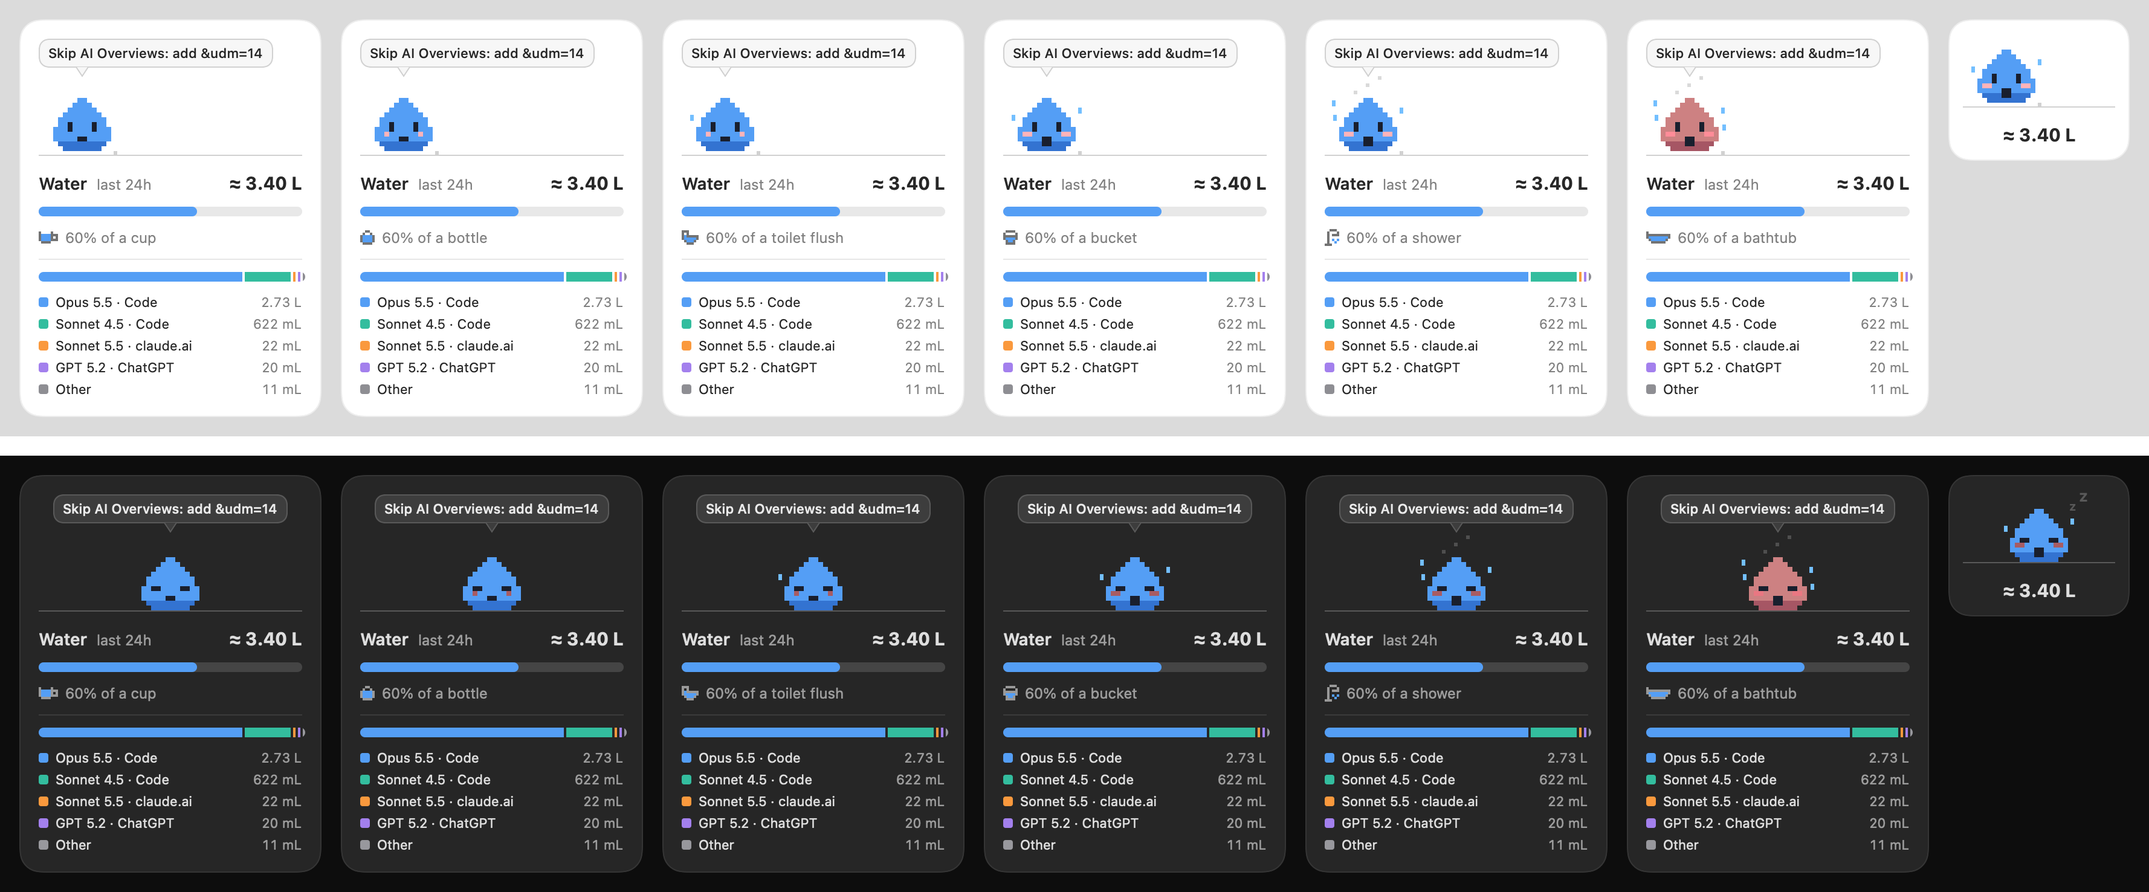
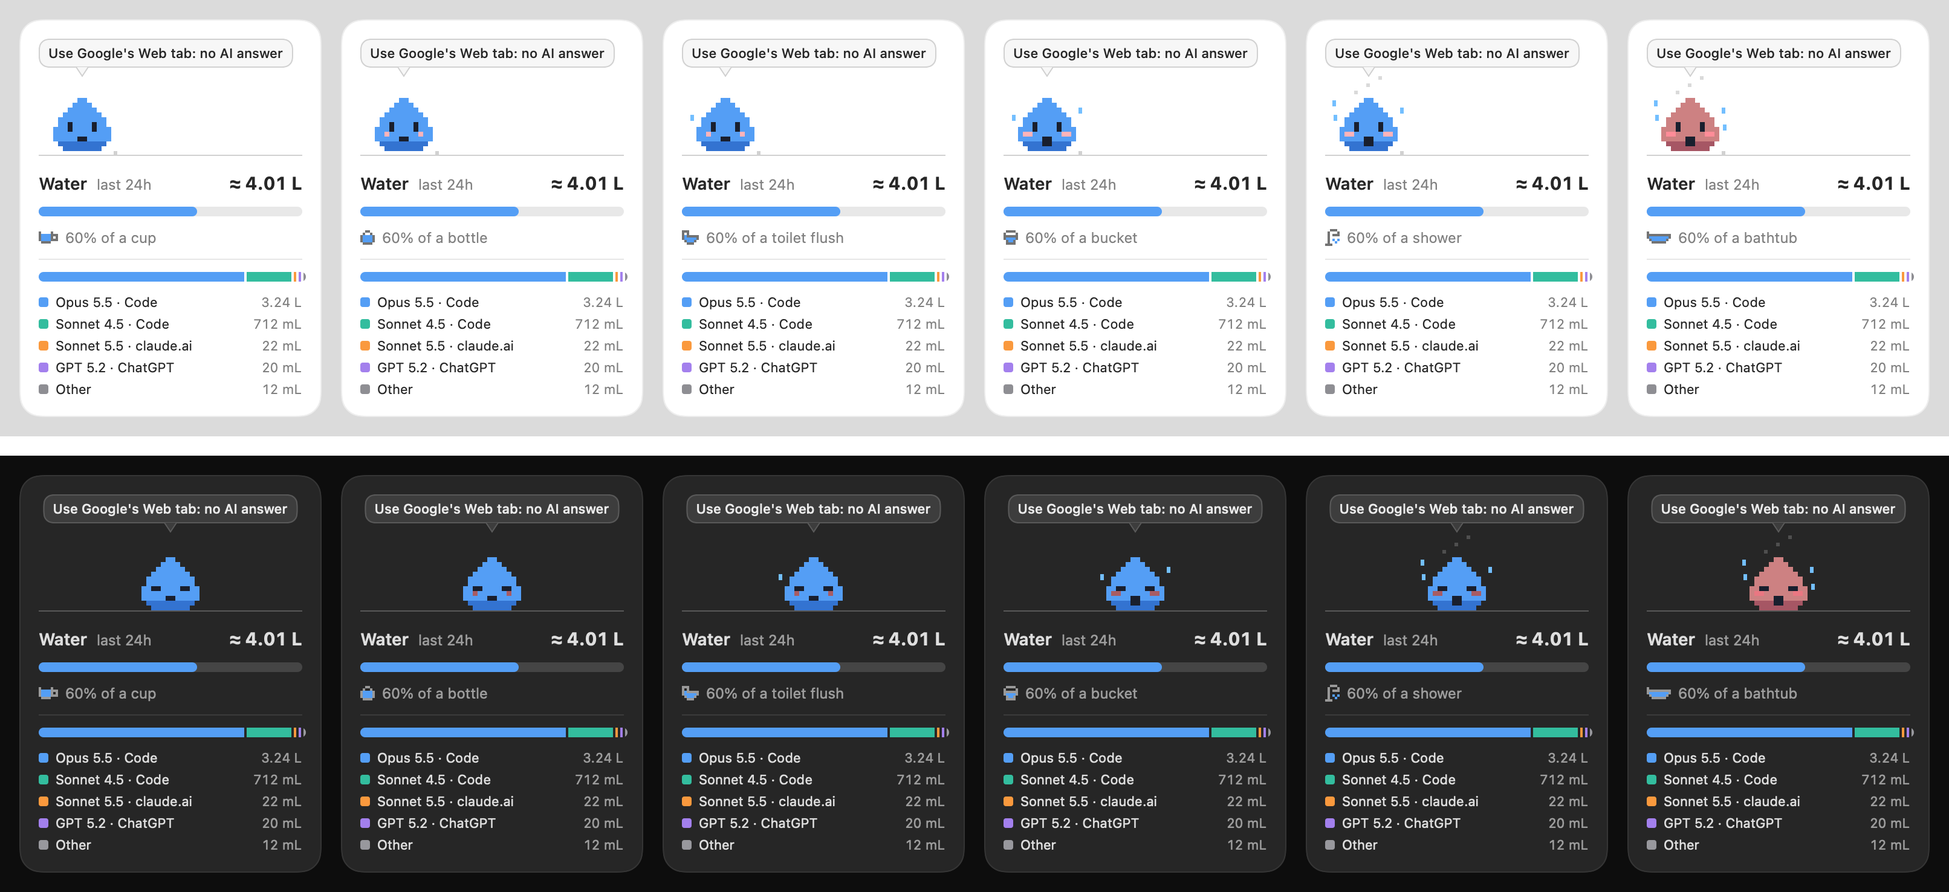
Track any AI chat site with a general stream meter; generalize the README
meter.js runs in the page on listed AI sites without a dedicated watcher
(Qwen, DeepSeek, Le Chat, Perplexity, Grok, Kimi, Copilot, Z.ai,
HuggingChat, Poe). It notices a streamed reply over fetch or XHR and
measures the visible text the page gained, without reading the stream;
the model comes from the request when present. Models EcoLogits knows use
it; unknown ones get a wide stand-in range with world-average water.
The README now covers AI use in general, with a supported-and-tested
table; the Google tip is clearer and the preview drops the minimal card.

diff --git a/Sources/Browser.swift b/Sources/Browser.swift
@@ -17,33 +17,44 @@ struct BrowserEvent: Equatable {
     let model: String?
     let tokens: Int
 
-    /// Accepts only known sites, a plain model id and a sane token count. Anything else is dropped.
+    /// Accepts a known site or a plain host name (any other AI chat site, measured by meter.js), a plain
+    /// model id and a sane token count. Anything else is dropped.
     init?(json: Data) {
-        guard let d = try? JSONSerialization.jsonObject(with: json) as? [String: Any],
-              let site = d["site"] as? String, Self.sites.contains(site) else { return nil }
+        guard let d = try? JSONSerialization.jsonObject(with: json) as? [String: Any], let site = d["site"] as? String,
+              Self.sites.contains(site) || site.range(of: #"^[a-z0-9-]+(\.[a-z0-9-]+)+$"#, options: .regularExpression) != nil,
+              site.count <= 64 else { return nil }
         self.site = site
         model = (d["model"] as? String).flatMap { $0.range(of: #"^[a-z0-9.\-]{1,64}$"#, options: .regularExpression) != nil ? $0 : nil }
         tokens = min(max(d["tokens"] as? Int ?? 0, 0), 100_000)
     }
 
-    /// The model behind the event and its water. Unknown models fall back to the site's usual default.
+    /// The model behind the event and its water.
     func usage(at date: Date, catalog: Catalog) -> Usage? {
-        let source = ["claude.ai": "claude.ai", "chatgpt.com": "ChatGPT", "gemini.google.com": "Gemini"][site] ?? "Search"
+        // Model ids as EcoLogits names them: ChatGPT's "gpt-5-2-thinking" is "gpt-5.2".
+        let candidates: [String] = model.map { (m: String) -> [String] in
+            let dotted = m.replacingOccurrences(of: #"(\d)-(\d)"#, with: "$1.$2", options: .regularExpression)
+            return [m, dotted, dotted.replacingOccurrences(of: #"-(thinking|instant|pro)$"#, with: "", options: .regularExpression)]
+        } ?? []
+        func estimate(_ m: Model, _ source: String) -> Usage {
+            Usage(date: date, source: source, model: m, output: tokens, thinking: 0, effort: nil, water: EcoLogits.water(m, outputTokens: tokens))
+        }
         switch site {
-        case "claude.ai", "chatgpt.com":
+        case "claude.ai", "chatgpt.com":   // unknown models fall back to the site's usual default
             let fallback = site == "claude.ai" ? "claude-sonnet-5-5" : "gpt-5"
-            // ChatGPT slugs look like "gpt-5-2-thinking"; EcoLogits names them "gpt-5.2".
-            let candidates: [String] = model.map { (m: String) -> [String] in
-                let dotted = m.replacingOccurrences(of: #"(\d)-(\d)"#, with: "$1.$2", options: .regularExpression)
-                return [m, dotted, dotted.replacingOccurrences(of: #"-(thinking|instant|pro)$"#, with: "", options: .regularExpression)]
-            } ?? []
             guard let m = (candidates + [fallback]).lazy.compactMap({ catalog[$0] }).first else { return nil }
-            return Usage(date: date, source: source, model: m, output: tokens, thinking: 0, effort: nil, water: EcoLogits.water(m, outputTokens: tokens))
-        default:
-            let name = site == "gemini.google.com" ? "Gemini" : "Google AI Overview"
-            let m = Model(name: name, provider: "google", total: 0...0, active: 0...0, tps: nil, ttft: nil)
-            return Usage(date: date, source: source, model: m, output: tokens, thinking: 0, effort: nil,
-                         water: Liters(min: googleLitersPerPrompt, max: googleLitersPerPrompt))
+            return estimate(m, site == "claude.ai" ? "claude.ai" : "ChatGPT")
+        case "gemini.google.com", "google-ai-overview":
+            let m = Model(name: site == "gemini.google.com" ? "Gemini" : "Google AI Overview", provider: "google",
+                          total: 0...0, active: 0...0, tps: nil, ttft: nil)
+            return Usage(date: date, source: site == "gemini.google.com" ? "Gemini" : "Search", model: m, output: tokens,
+                         thinking: 0, effort: nil, water: Liters(min: googleLitersPerPrompt, max: googleLitersPerPrompt))
+        default:   // any other AI chat site: EcoLogits if it knows the model, else a wide stand-in
+            let source = site.replacingOccurrences(of: #"^(chat|www)\."#, with: "", options: .regularExpression)
+            if let m = candidates.lazy.compactMap({ catalog[$0] }).first, EcoLogits.providers[m.provider] != nil {
+                return estimate(m, source)
+            }
+            // ponytail: one size range for every unknown model; per-site sizes if a site is used a lot.
+            return estimate(Model(name: model ?? "AI chat", provider: "other", total: 200...1000, active: 20...100, tps: nil, ttft: nil), source)
         }
     }
 }
@@ -92,7 +103,8 @@ final class BrowserReader {
 
 func browserSelfTest(catalog: Catalog) {
     func event(_ s: String) -> BrowserEvent? { BrowserEvent(json: Data(s.utf8)) }
-    precondition(event(#"{"site":"evil.com","tokens":5}"#) == nil, "unknown site must be dropped")
+    precondition(event(#"{"site":"<script>","tokens":5}"#) == nil && event(#"{"site":"localhost","tokens":5}"#) == nil,
+                 "anything but a host name must be dropped")
     precondition(event(#"{"site":"claude.ai","model":"x\"; rm","tokens":9999999}"#).map { $0.model == nil && $0.tokens == 100_000 } == true,
                  "bad model and huge token count must be cleaned")
     let opus = event(#"{"site":"claude.ai","model":"claude-opus-5-5","tokens":1000}"#)!.usage(at: Date(), catalog: catalog)!
@@ -100,5 +112,9 @@ func browserSelfTest(catalog: Catalog) {
     let gpt = event(#"{"site":"chatgpt.com","model":"gpt-5-2-thinking","tokens":1000}"#)!.usage(at: Date(), catalog: catalog)!
     precondition(gpt.model.name == "gpt-5.2", "ChatGPT slug must map to EcoLogits, got \(gpt.model.name)")
     precondition(event(#"{"site":"google-ai-overview"}"#)!.usage(at: Date(), catalog: catalog)!.water.min == googleLitersPerPrompt)
+    let mistral = event(#"{"site":"chat.mistral.ai","model":"mistral-medium-3.5","tokens":1000}"#)!.usage(at: Date(), catalog: catalog)!
+    precondition(abs(mistral.water.min - 0.0034188770292818793) < 1e-12 && mistral.source == "mistral.ai", "known models on other sites use EcoLogits")
+    let qwen = event(#"{"site":"chat.qwen.ai","model":"qwen3.7-plus","tokens":1000}"#)!.usage(at: Date(), catalog: catalog)!
+    precondition(qwen.model.provider == "other" && qwen.water.min > 0 && qwen.water.max > qwen.water.min, "unknown models get a range")
     print("browser selftest ok")
 }

diff --git a/extension/meter.js b/extension/meter.js
@@ -1,0 +1,69 @@
+// General meter for AI chat sites that have no dedicated watcher in content.js. Runs inside the
+// page (MAIN world) so it can see the page's own requests.
+//
+// It never reads what is sent or streamed. It only notices that a reply is streaming (a POST whose
+// response arrives in pieces, over fetch or XMLHttpRequest), then measures how much visible text the
+// page gained from the start of the stream until it settles. Overlapping streams count as one reply.
+// The model is taken from the request's "model" field when the site sends one.
+// ponytail: WebSocket chats are not seen; add a WebSocket hook if a listed site turns out to use one.
+(() => {
+  const SETTLE_MS = 1500, MIN_CHARS = 20, CHARS_PER_TOKEN = 4;
+  let open = false, active = 0, startLen = 0, model = null, timer;
+  const visible = () => document.body?.innerText.length ?? 0;
+
+  function modelOf(body) {
+    try {
+      const j = typeof body === "string" ? JSON.parse(body) : null;
+      const m = j?.model ?? j?.model_slug ?? j?.models?.[0];
+      return typeof m === "string" ? m.toLowerCase() : null;
+    } catch { return null; }
+  }
+  function begin(m, from) {   // from: visible text length when the request was sent
+    clearTimeout(timer);
+    if (!open) { open = true; startLen = from; model = null; }
+    model ||= m;
+    active++;
+  }
+  function end() {
+    if (--active > 0) return;
+    timer = setTimeout(() => {
+      open = false;
+      const chars = visible() - startLen;
+      if (chars >= MIN_CHARS) {
+        window.postMessage({ tracky: { site: location.hostname, model, tokens: Math.round(chars / CHARS_PER_TOKEN) } }, location.origin);
+      }
+    }, SETTLE_MS);
+  }
+
+  const origFetch = window.fetch;
+  window.fetch = async function (input, init) {
+    let post = false, from = 0;
+    try {   // never let the meter break the site: anything unexpected passes straight through
+      post = String(init?.method ?? (input instanceof Request ? input.method : "GET")).toUpperCase() === "POST";
+      if (post) from = visible();   // reading visible text forces a layout, so only for POSTs
+    } catch {}
+    const res = await origFetch.apply(this, arguments);
+    try {
+      if (post && res.body && /event-stream|ndjson|stream/.test(res.headers.get("content-type") ?? "")) {
+        begin(modelOf(init?.body), from);
+        res.clone().body.pipeTo(new WritableStream()).catch(() => {}).finally(end);   // waits for the end only
+      }
+    } catch {}
+    return res;
+  };
+
+  const xhrOpen = XMLHttpRequest.prototype.open, xhrSend = XMLHttpRequest.prototype.send;
+  XMLHttpRequest.prototype.open = function (method) {
+    this.trackyPost = String(method).toUpperCase() === "POST";
+    return xhrOpen.apply(this, arguments);
+  };
+  XMLHttpRequest.prototype.send = function (body) {
+    if (this.trackyPost) {
+      let chunks = 0, began = false;
+      const from = visible();
+      this.addEventListener("progress", () => { if (++chunks === 2) { began = true; begin(modelOf(body), from); } });   // streaming = several pieces
+      this.addEventListener("loadend", () => { if (began) end(); });
+    }
+    return xhrSend.apply(this, arguments);
+  };
+})();

diff --git a/Sources/main.swift b/Sources/main.swift
@@ -116,7 +116,7 @@ func tips(_ s: Store) -> [String] {
     var out: [String] = []
     if let last = s.usages.max(by: { $0.date < $1.date }) {
         if last.source == "Search" {
-            out += ["Skip AI Overviews: add &udm=14", "AI Mode follow-ups cost water"]
+            out += ["Use Google's Web tab: no AI answer", "AI Mode follow-ups cost water"]
         }
         if let alt = lighter(than: last.model) {
             let ratio = EcoLogits.water(last.model, outputTokens: 1000).mid / EcoLogits.water(alt, outputTokens: 1000).mid
@@ -489,7 +489,6 @@ if let i = args.firstIndex(of: "--preview"), i + 1 < args.count {   // render ev
         ForEach([ColorScheme.light, .dark], id: \.self) { scheme in
             HStack(alignment: .top, spacing: 16) {   // light: awake at each heat level; dark: asleep
                 ForEach(0..<containers.count, id: \.self) { Companion(store: store, forced: (scheme == .dark, $0)) }
-                Companion(store: store, forced: (scheme == .dark, 3), forcedCompact: true)
             }
             .padding(16).background(scheme == .dark ? Color(white: 0.05) : Color(white: 0.86)).environment(\.colorScheme, scheme)
         }

diff --git a/Sources/Water.swift b/Sources/Water.swift
@@ -28,6 +28,10 @@ enum EcoLogits {
     static let providers: [String: (pue: ClosedRange<Double>, wue: ClosedRange<Double>, offsite: Double)] = [
         "anthropic": (1.09...1.14, 0.13...0.999, 3.1321),
         "openai": (1.2...1.2, 0.569...0.569, 3.1321),
+        "mistralai": (1.16...1.16, 0.09...0.09, 6.0315),   // SWE
+        // Not in EcoLogits: an unknown provider gets the widest PUE and WUE range above, with the
+        // world-average off-site WUE (WOR 3.908).
+        "other": (1.09...1.2, 0.09...0.999, 3.908),
     ]
 
     static func water(_ m: Model, outputTokens: Int) -> Liters {

diff --git a/extension/content.js b/extension/content.js
@@ -92,3 +92,9 @@ function watchSearch() {
 
 if (location.hostname === "www.google.com") watchSearch();
 else if (SITES[location.hostname]) watchReplies(location.hostname, SITES[location.hostname]);
+else {
+  // Any other listed AI site: meter.js (in the page) measures replies; pass its events on.
+  window.addEventListener("message", (e) => {
+    if (e.source === window && e.data?.tracky) report(e.data.tracky);
+  });
+}

diff --git a/README.md b/README.md
@@ -1,8 +1,8 @@
 # Tracky
 
-A small pixel water drop that lives on your Mac and shows how much water your AI use costs, while you use it.
+A small pixel water drop that lives on your Mac and shows how much water your AI use costs, while you use it: coding agents, AI chats in the browser, and Google's AI answers.
 
-![Tracky at each heat level, awake in light mode and asleep in dark mode, with sample browser usage in the legend](docs/preview.png)
+![Tracky at each heat level, awake in light mode and asleep in dark mode, with sample usage in the legend](docs/preview.png)
 
 - **On the desktop:** a card you can drag anywhere. Tracky sleeps when no AI is working and paces and hops while one is. Double-click the card (or use the menu) to switch between the complete card and a minimal one with just Tracky and the total.
 - **It heats up as you use more water.** A bar fills toward the next container, and each container you pass makes Tracky hotter:
@@ -16,13 +16,27 @@ A small pixel water drop that lives on your Mac and shows how much water your AI
   | shower | 60 ([average US shower, 15.8 gal](https://home-water-works.org/indoor-use/showers)) | steaming |
   | bathtub | 150 | overheated, red |
 
-- **Where the water comes from:** a second bar splits the total by model and source, such as *Opus 5.5 · Code* or *Sonnet 5.5 · claude.ai*, with a legend. The four largest get a color; the rest are grouped as *Other*.
-- **Tips in a speech bubble,** about what you used last: the next lighter model in the same family (*Try Sonnet 5.5: ~3× less water* after Opus, *Try Haiku 5.5* after Sonnet), your Claude Code effort (*45% thinking: try lower effort*), or, after a Google search with an AI answer, *Skip AI Overviews: add &udm=14*.
+- **Where the water comes from:** a second bar splits the total by model and source, such as *Opus 5.5 · Code*, *GPT 5.2 · ChatGPT* or *Google AI Overview*, with a legend. The four largest get a color; the rest are grouped as *Other*.
+- **Tips in a speech bubble,** about what you used last: the next lighter model in the same family (*Try Sonnet 5.5: ~3× less water* after Opus), your coding agent's effort (*45% thinking: try lower effort*), or, after a Google search with an AI answer, *Use Google's Web tab: no AI answer*.
 - **Menu bar:** the drop and the total. Click it for the same breakdown, a tip, the period (last 1, 5 or 24 hours), switches for the minimal card, to hide the card and to open Tracky at login (on by default), and *How is this estimated?*, which opens the EcoLogits method Tracky implements.
 
 Everything stays on your Mac. Tracky records only which model ran, when, and how many tokens it produced. It never stores prompts or replies, needs no macOS permissions and makes no network calls.
 
-## Run it
+## What works, and what's been tested
+
+Tracky may work with tools outside this list, but only what's marked *tested* has been checked against real use.
+
+| Source | How Tracky sees it | Status |
+|---|---|---|
+| Claude Code (terminal, and the Claude desktop app's Code tab) | its local logs: exact model and token counts | tested |
+| claude.ai in Chrome | extension, model from the page | tested |
+| chatgpt.com in Chrome | extension, model from the page when shown (GPT-5 otherwise) | tested |
+| Google AI Overviews and AI Mode in Chrome | extension, one prompt per AI answer, follow-ups included | tested (English and Italian Google) |
+| gemini.google.com in Chrome | extension | built, not confirmed |
+| Other AI chat sites in Chrome: Qwen, DeepSeek, Le Chat, Perplexity, Grok, Kimi, Copilot, Z.ai, HuggingChat, Poe | extension's general meter | built, checked only on a simulated chat |
+| Claude desktop app's chat, Cowork, desktop chat apps, Firefox, Safari, local models | — | not yet |
+
+## Install
 
 Needs macOS 14+ and the Swift toolchain (Xcode Command Line Tools are enough).
 
@@ -34,7 +48,7 @@ Needs macOS 14+ and the Swift toolchain (Xcode Command Line Tools are enough).
 open build/Tracky.app
 ```
 
-`build.sh` also runs the self-test. Two more flags help with checking:
+`build.sh` also runs the self-tests. Two more flags help with checking:
 
 ```bash
 build/Tracky.app/Contents/MacOS/Tracky --dump
@@ -46,32 +60,24 @@ build/Tracky.app/Contents/MacOS/Tracky --preview docs/preview.png
 
 `--dump` prints what Tracky read from the last 24 hours. `--preview` renders every heat level, awake and asleep, to a PNG, adding a few sample browser events so the legend fills up.
 
-## What it tracks
-
-**Claude Code**, in the terminal and in the Claude desktop app's Code tab. It reads `~/.claude/projects/*/*.jsonl`, and for each reply takes the model, output and thinking tokens, and effort. These counts are exact.
-
-**The browser (Chrome),** through the extension in `extension/`. When an AI reply finishes, it sends Tracky the site, the model and an approximate token count, never the text.
-
-| Site | Model | Water |
-|---|---|---|
-| claude.ai | read from the model picker (Sonnet 5.5 if not found) | EcoLogits |
-| chatgpt.com | read from the reply (GPT-5 if not found) | EcoLogits |
-| gemini.google.com | not read | Google's measured 0.26 mL per prompt |
-| Google search: each AI Overview and AI Mode answer, follow-ups included | not read | Google's measured 0.26 mL per prompt |
-
-Browser counts are estimates: tokens are guessed from reply length (about 4 characters per token), and a reply counts only once Tracky has seen it stream in. Replies already on the page, such as an old chat you open, are never counted.
-
-To set it up:
+### Browser extension (Chrome)
 
 ```bash
 ./install-browser.sh
 ```
 
-Then, in Chrome, open `chrome://extensions`, turn on **Developer mode**, click **Load unpacked**, and pick the `extension` folder. The script registers Tracky as Chrome's [native messaging](https://developer.chrome.com/docs/extensions/develop/concepts/native-messaging) host; `./install-browser.sh --uninstall` removes it. Each event is stored as one line in `~/Library/Application Support/Tracky/browser.jsonl`.
+Then, in Chrome, open `chrome://extensions`, turn on **Developer mode**, click **Load unpacked**, and pick the `extension` folder. The script registers Tracky as Chrome's [native messaging](https://developer.chrome.com/docs/extensions/develop/concepts/native-messaging) host; `./install-browser.sh --uninstall` removes it.
 
-The extension finds replies through each site's page structure, which can change without notice. If a site stops counting, open its DevTools console: every counted reply logs a `[tracky]` line.
+## How it sees your AI use
 
-Not tracked yet: the Claude desktop app's chat, Cowork, other browsers, and local models.
+**Coding agents.** Tracky reads Claude Code's own logs (`~/.claude/projects/*/*.jsonl`): for each reply, the model, output and thinking tokens, and effort. These counts are exact.
+
+**The browser.** When an AI reply finishes, the extension sends Tracky the site, the model and an approximate token count, never the text. Tracky stores each event as one line in `~/Library/Application Support/Tracky/browser.jsonl`. There are two ways it notices replies:
+
+- **Dedicated watchers** for claude.ai, ChatGPT, Gemini and Google search. They read each site's page structure, which also gives the model name. Sites can change that structure without notice.
+- **A general meter** for the other listed sites. It notices that the page is streaming a reply (a request whose answer arrives in pieces), then measures how much visible text the page gained. It never reads what is sent or streamed, only the model name when the request carries one. Adding a site is one line in `extension/manifest.json`.
+
+Browser token counts are estimates (about 4 characters per token). A reply counts only once Tracky has seen it stream in, so an old chat you open is never counted. If a site stops counting, open its DevTools console: every counted reply logs a `[tracky]` line.
 
 ## How the water is estimated
 
@@ -80,9 +86,14 @@ Tracky is a Swift port of the [EcoLogits](https://ecologits.ai) LLM inference me
 1. **Energy per request** comes from the number of output tokens and the model's active parameters, fitted on the [ML.ENERGY leaderboard](https://ml.energy/leaderboard) (GPU), plus the server's share during generation, scaled by the data center's PUE.
 2. **Water** follows [Li et al. 2025, *Making AI Less "Thirsty"*](https://arxiv.org/abs/2304.03271): on-site cooling water (the data center's WUE) plus off-site water used to generate its electricity ([WRI method](https://www.wri.org/research/guidance-calculating-water-use-embedded-purchased-electricity)).
    `water = IT energy × (WUE on-site + PUE × WUE off-site)`
-3. **Model sizes** come from EcoLogits' `models.json`, bundled unchanged in `Resources/`. Anthropic doesn't publish Claude's sizes, so EcoLogits estimates a range. Tracky computes the min–max range and shows its midpoint, marked `≈`.
+3. **Model sizes** come from EcoLogits' `models.json`, bundled unchanged in `Resources/`. Closed models (Claude, GPT) don't publish their sizes, so EcoLogits estimates a range. Tracky computes the min–max range and shows its midpoint, marked `≈`.
 
-For Gemini and Google's AI Overviews, Tracky uses Google's own measurement instead of an estimate: [0.26 mL of water per median Gemini text prompt](https://services.google.com/fh/files/misc/measuring_the_environmental_impact_of_delivering_ai_at_google_scale.pdf). For scale, by EcoLogits, 1,000 output tokens from Opus 5.5 cost about 10–24 mL, and from Haiku 5.5 about 0.2–0.6 mL.
+Two cases go beyond EcoLogits:
+
+- **Google** (Gemini and AI Overviews): Tracky uses Google's own measurement, [0.26 mL of water per median Gemini text prompt](https://services.google.com/fh/files/misc/measuring_the_environmental_impact_of_delivering_ai_at_google_scale.pdf).
+- **Models EcoLogits doesn't know** (Qwen, DeepSeek, Kimi, Grok and others): the same formula with an assumed size range of 200–1,000B total and 20–100B active parameters, the widest data-center figures EcoLogits uses, and world-average electricity water. Treat these numbers as an order of magnitude.
+
+For scale, by EcoLogits, 1,000 output tokens from Opus 5.5 cost about 10–24 mL, and from Haiku 5.5 about 0.2–0.6 mL.
 
 ### Known limits
 
